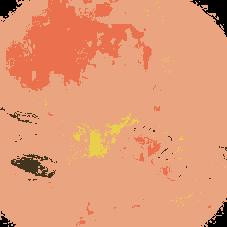
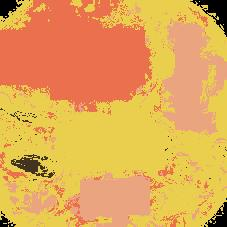
fixing some imagex SVM

diff --git a/SVM_classification.py b/SVM_classification.py
@@ -6,7 +6,8 @@ from sklearn.cluster import KMeans
 from sklearn.svm import SVC
 import os
 
-plt.close('all')
+
+
 # #1----------------------------------------------------------------------------------------------------------
 # classes = {'wall': 0, 'polyp': 1, 'dirt': 2, 'dark': 3, 'hole': 4}
 # n_classes = len(classes)
@@ -79,42 +80,42 @@ plt.close('all')
 #
 # supervised_2 = supervised
 # imageio.imwrite('./images/2_SVM.jpg',palette[supervised])
-#3----------------------------------------------------------------------------------------------------------
-classes = {'wall': 0, 'polyp': 1, 'dirt': 2, 'dark': 3, 'hole': 4}
-n_classes = len(classes)
-palette = np.uint8([[234, 164, 128], [234, 112, 78], [234, 207, 79], [0, 0, 0], [67,52,31]])
-
-img = io.imread('images/3.jpg')
-img2 = img
-rows, cols, bands = img.shape
-
-
-X = img.reshape(rows*cols, bands)
-kmeans = KMeans(n_clusters=n_classes, random_state=0).fit(X)
-
-supervised = n_classes*np.ones(shape=(rows, cols), dtype=np.int)
-supervised[160:200, :175] = classes['polyp']
-supervised[40:100, 25:175] = classes['wall']
-supervised[148:154, 109:136] = classes['dirt']
-supervised[0:10, 0:10] = classes['dark']
-#supervised[90:110, 65:75] = classes['hole']
-
-y = supervised.ravel()
-train = np.flatnonzero(supervised < n_classes)
-test = np.flatnonzero(supervised == n_classes)
-
-clf = SVC()
-clf.fit(X[train], y[train])
-y[test] = clf.predict(X[test])
-supervised = y.reshape(rows, cols)
-#io.imshow(palette[supervised])
-plt.imshow(img2)
-plt.show()
-plt.imshow(palette[supervised], cmap=plt.cm.binary)
-plt.show()
-
-supervised_3 = supervised
-imageio.imwrite('./images/3_SVM.jpg',palette[supervised])
+# # 3----------------------------------------------------------------------------------------------------------
+# classes = {'wall': 0, 'polyp': 1, 'dirt': 2, 'dark': 3, 'hole': 4}
+# n_classes = len(classes)
+# palette = np.uint8([[234, 164, 128], [234, 112, 78], [234, 207, 79], [0, 0, 0], [67,52,31]])
+#
+# img = io.imread('images/3.jpg')
+# img2 = img
+# rows, cols, bands = img.shape
+#
+#
+# X = img.reshape(rows*cols, bands)
+# kmeans = KMeans(n_clusters=n_classes, random_state=0).fit(X)
+#
+# supervised = n_classes*np.ones(shape=(rows, cols), dtype=np.int)
+# supervised[160:200, 145:190] = classes['polyp']
+# supervised[00:130, 25:175] = classes['wall']
+# #supervised[148:154, 109:146] = classes['dirt']
+# supervised[0:10, 0:10] = classes['dark']
+# #supervised[90:110, 65:75] = classes['hole']
+#
+# y = supervised.ravel()
+# train = np.flatnonzero(supervised < n_classes)
+# test = np.flatnonzero(supervised == n_classes)
+#
+# clf = SVC()
+# clf.fit(X[train], y[train])
+# y[test] = clf.predict(X[test])
+# supervised = y.reshape(rows, cols)
+# #io.imshow(palette[supervised])
+# plt.imshow(img2)
+# plt.show()
+# plt.imshow(palette[supervised], cmap=plt.cm.binary)
+# plt.show()
+#
+# supervised_3 = supervised
+# imageio.imwrite('./images/3_SVM.jpg',palette[supervised])
 # #4------------------------------------------------------------------------------------------------
 # classes = {'wall': 0, 'polyp': 1, 'dirt': 2, 'dark': 3, 'hole': 4}
 # n_classes = len(classes)
@@ -129,11 +130,11 @@ imageio.imwrite('./images/3_SVM.jpg',palette[supervised])
 # kmeans = KMeans(n_clusters=n_classes, random_state=0).fit(X)
 #
 # supervised = n_classes*np.ones(shape=(rows, cols), dtype=np.int)
-# supervised[25:45, 85:115] = classes['polyp']
-# supervised[100:120, 0:35] = classes['wall']
+# supervised[10:50, 80:125] = classes['polyp']
+# supervised[125:175, 70:175] = classes['wall']
 # #supervised[148:154, 109:136] = classes['dirt']
 # supervised[0:10, 0:10] = classes['dark']
-# supervised[75:85, 100:120] = classes['hole']
+# supervised[65:85, 85:120] = classes['hole']
 #
 # y = supervised.ravel()
 # train = np.flatnonzero(supervised < n_classes)
@@ -165,11 +166,11 @@ imageio.imwrite('./images/3_SVM.jpg',palette[supervised])
 # kmeans = KMeans(n_clusters=n_classes, random_state=0).fit(X)
 #
 # supervised = n_classes*np.ones(shape=(rows, cols), dtype=np.int)
-# supervised[170:185, 140:153] = classes['polyp']
-# supervised[25:50, 150:165] = classes['wall']
-# #supervised[148:154, 109:136] = classes['dirt']
+# supervised[165:195, 140:170] = classes['polyp']
+# supervised[25:100, 150:165] = classes['wall']
+# supervised[140:160, 169:182] = classes['dirt']
 # supervised[0:10, 0:10] = classes['dark']
-# supervised[62:70, 50:65] = classes['hole']
+# supervised[65:90, 50:80] = classes['hole']
 #
 # y = supervised.ravel()
 # train = np.flatnonzero(supervised < n_classes)
@@ -201,10 +202,13 @@ imageio.imwrite('./images/3_SVM.jpg',palette[supervised])
 # kmeans = KMeans(n_clusters=n_classes, random_state=0).fit(X)
 #
 # supervised = n_classes*np.ones(shape=(rows, cols), dtype=np.int)
-# supervised[10:20, 50:150] = classes['wall']
-# supervised[135:155, 125:145] = classes['polyp']
-# supervised[110:125, 148:164] = classes['dirt']
-# supervised[150:165, 10:48] = classes['hole']
+# supervised[0:65, 25:175] = classes['wall']
+# supervised[135:170, 123:150] = classes['polyp']
+# supervised[150:180, 65:105] = classes['polyp']
+# supervised[105:120, 148:170] = classes['dirt']
+# supervised[130:160, 192:214] = classes['dirt']
+# supervised[105:115, 81:90] = classes['dirt']
+# supervised[125:165, 10:48] = classes['hole']
 # supervised[0:10, 0:10] = classes['dark']
 #
 # y = supervised.ravel()
@@ -237,8 +241,12 @@ imageio.imwrite('./images/3_SVM.jpg',palette[supervised])
 # kmeans = KMeans(n_clusters=n_classes, random_state=0).fit(X)
 #
 # supervised = n_classes*np.ones(shape=(rows, cols), dtype=np.int)
-# supervised[100:180, 110:190] = classes['wall']
-# supervised[25:70, 0:35] = classes['polyp']
+# supervised[100:170, 110:190] = classes['wall']
+# supervised[110:198, 0:75] = classes['wall']
+# #supervised[100:170, 110:190] = classes['wall']
+#
+# supervised[25:85, 0:52] = classes['polyp']
+# supervised[5:25, 18:60] = classes['polyp']
 # #supervised[110:125, 148:164] = classes['dirt']
 # supervised[210:225, 125:170] = classes['hole']
 # supervised[0:10, 0:10] = classes['dark']
@@ -273,10 +281,11 @@ imageio.imwrite('./images/3_SVM.jpg',palette[supervised])
 # kmeans = KMeans(n_clusters=n_classes, random_state=0).fit(X)
 #
 # supervised = n_classes*np.ones(shape=(rows, cols), dtype=np.int)
-# supervised[75:125, 75:175] = classes['wall']
-# supervised[65:90, 25:60] = classes['polyp']
+# supervised[75:150, 115:185] = classes['wall']
+# supervised[10:175, 150:200] = classes['wall']
+# supervised[60:100, 20:72] = classes['polyp']
 # #supervised[110:125, 148:164] = classes['dirt']
-# supervised[110:139, 40:95] = classes['hole']
+# supervised[110:139, 40:100] = classes['hole']
 # supervised[0:10, 0:10] = classes['dark']
 #
 # y = supervised.ravel()
@@ -310,9 +319,9 @@ imageio.imwrite('./images/3_SVM.jpg',palette[supervised])
 #
 # supervised = n_classes*np.ones(shape=(rows, cols), dtype=np.int)
 # supervised[100:140, 160:200] = classes['wall']
-# supervised[150:175, 140:175] = classes['polyp']
+# supervised[148:185, 135:175] = classes['polyp']
 # #supervised[110:125, 148:164] = classes['dirt']
-# supervised[40:75, 40:80] = classes['hole']
+# supervised[40:80, 40:82] = classes['hole']
 # supervised[0:10, 0:10] = classes['dark']
 #
 # y = supervised.ravel()
@@ -346,7 +355,7 @@ imageio.imwrite('./images/3_SVM.jpg',palette[supervised])
 #
 # supervised = n_classes*np.ones(shape=(rows, cols), dtype=np.int)
 # supervised[100:160, 0:100] = classes['wall']
-# supervised[20:50, 125:165] = classes['polyp']
+# supervised[20:50, 125:169] = classes['polyp']
 # #supervised[110:125, 148:164] = classes['dirt']
 # #supervised[40:75, 40:80] = classes['hole']
 # supervised[0:10, 0:10] = classes['dark']
@@ -381,8 +390,8 @@ imageio.imwrite('./images/3_SVM.jpg',palette[supervised])
 # kmeans = KMeans(n_clusters=n_classes, random_state=0).fit(X)
 #
 # supervised = n_classes*np.ones(shape=(rows, cols), dtype=np.int)
-# supervised[40:100, 0:50] = classes['wall']
-# supervised[90:150, 75:90] = classes['polyp']
+# supervised[40:190, 0:50] = classes['wall']
+# supervised[90:160, 60:100] = classes['polyp']
 # #supervised[110:125, 148:164] = classes['dirt']
 # supervised[100:175, 120:165] = classes['hole']
 # supervised[0:10, 0:10] = classes['dark']
@@ -419,6 +428,7 @@ imageio.imwrite('./images/3_SVM.jpg',palette[supervised])
 # supervised = n_classes*np.ones(shape=(rows, cols), dtype=np.int)
 # supervised[22:50, 0:20] = classes['wall']
 # supervised[180:210, 175:190] = classes['polyp']
+# supervised[180:205, 175:200] = classes['polyp']
 # supervised[90:110, 83:98] = classes['dirt']
 # supervised[40:108, 125:175] = classes['hole']
 # supervised[50:53, 212:214] = classes['hole']
@@ -454,10 +464,12 @@ imageio.imwrite('./images/3_SVM.jpg',palette[supervised])
 # kmeans = KMeans(n_clusters=n_classes, random_state=0).fit(X)
 #
 # supervised = n_classes*np.ones(shape=(rows, cols), dtype=np.int)
-# supervised[75:130, 180:221] = classes['wall']
-# supervised[30:70, 35:75] = classes['polyp']
-# supervised[133:155, 90:100] = classes['dirt']
-# supervised[125:133, 112:120] = classes['dirt']
+# supervised[25:130, 175:200] = classes['wall']
+# supervised[180:215, 80:150] = classes['wall']
+# supervised[27:85, 0:145] = classes['polyp']
+# supervised[50:100, 50:130] = classes['polyp']
+# supervised[138:155, 70:100] = classes['dirt']
+# supervised[125:170, 65:165] = classes['dirt']
 # supervised[135:140, 75:80] = classes['dirt']
 # supervised[160:172, 25:38] = classes['hole']
 # supervised[0:10, 0:10] = classes['dark']
@@ -492,11 +504,12 @@ imageio.imwrite('./images/3_SVM.jpg',palette[supervised])
 # kmeans = KMeans(n_clusters=n_classes, random_state=0).fit(X)
 #
 # supervised = n_classes*np.ones(shape=(rows, cols), dtype=np.int)
-# supervised[50:60, 20:30] = classes['wall']
-# supervised[20:60, 125:175] = classes['wall']
-# supervised[140:175, 50:95] = classes['polyp']
+# supervised[20:95, 85:180] = classes['wall']
+# supervised[49:100, 0:10] = classes['wall']
+# supervised[25:120, 40:80] = classes['wall']
+# supervised[130:205, 28:113] = classes['polyp']
 # #supervised[133:155, 90:100] = classes['dirt']
-# supervised[160:185, 140:175] = classes['hole']
+# supervised[135:185, 135:220] = classes['hole']
 # supervised[0:12, 0:12] = classes['dark']
 #
 # y = supervised.ravel()
@@ -530,8 +543,8 @@ imageio.imwrite('./images/3_SVM.jpg',palette[supervised])
 #
 # supervised = n_classes*np.ones(shape=(rows, cols), dtype=np.int)
 # supervised[170:200, 150:185] = classes['wall']
-# supervised[30:75, 20:60] = classes['wall']
-# supervised[150:190, 40:92] = classes['polyp']
+# supervised[30:79, 20:60] = classes['wall']
+# supervised[150:190, 18:92] = classes['polyp']
 # #supervised[133:155, 90:100] = classes['dirt']
 # supervised[90:125, 130:175] = classes['hole']
 # supervised[0:12, 0:12] = classes['dark']
@@ -566,9 +579,9 @@ imageio.imwrite('./images/3_SVM.jpg',palette[supervised])
 # kmeans = KMeans(n_clusters=n_classes, random_state=0).fit(X)
 #
 # supervised = n_classes*np.ones(shape=(rows, cols), dtype=np.int)
-# supervised[25:70, 25:75] = classes['wall']
-# supervised[75:85, 115:130] = classes['polyp']
-# supervised[65:85, 145:160] = classes['dirt']
+# supervised[40:180, 0:100] = classes['wall']
+# supervised[50:85, 105:145] = classes['polyp']
+# supervised[60:90, 140:160] = classes['dirt']
 # #supervised[90:125, 130:175] = classes['hole']
 # supervised[0:12, 0:12] = classes['dark']
 #
@@ -588,42 +601,42 @@ imageio.imwrite('./images/3_SVM.jpg',palette[supervised])
 #
 # supervised_16 = supervised
 # imageio.imwrite('./images/16_SVM.jpg',palette[supervised])
-# #17----------------------------------------------------------------------------------------------
-# classes = {'wall': 0, 'polyp': 1, 'dirt': 2, 'dark': 3, 'hole': 4}
-# n_classes = len(classes)
-# palette = np.uint8([[234, 164, 128], [234, 112, 78], [234, 207, 79], [0, 0, 0], [67,52,31]])
-#
-# img = io.imread('images/17.jpg')
-# img2 = img
-# rows, cols, bands = img.shape
-#
-#
-# X = img.reshape(rows*cols, bands)
-# kmeans = KMeans(n_clusters=n_classes, random_state=0).fit(X)
-#
-# supervised = n_classes*np.ones(shape=(rows, cols), dtype=np.int)
-# supervised[0:20, 100:135] = classes['wall']
-# supervised[110:155, 70:81] = classes['polyp']
-# supervised[60:90, 150:165] = classes['dirt']
-# supervised[40:60, 30:60] = classes['hole']
-# supervised[0:12, 0:12] = classes['dark']
-#
-# y = supervised.ravel()
-# train = np.flatnonzero(supervised < n_classes)
-# test = np.flatnonzero(supervised == n_classes)
-#
-# clf = SVC()
-# clf.fit(X[train], y[train])
-# y[test] = clf.predict(X[test])
-# supervised = y.reshape(rows, cols)
-# #io.imshow(palette[supervised])
-# plt.imshow(img2)
-# plt.show()
-# plt.imshow(palette[supervised], cmap=plt.cm.binary)
-# plt.show()
-#
-# supervised_17 = supervised
-# imageio.imwrite('./images/17_SVM.jpg',palette[supervised])
+#17----------------------------------------------------------------------------------------------
+classes = {'wall': 0, 'polyp': 1, 'dirt': 2, 'dark': 3, 'hole': 4}
+n_classes = len(classes)
+palette = np.uint8([[234, 164, 128], [234, 112, 78], [234, 207, 79], [0, 0, 0], [67,52,31]])
+
+img = io.imread('images/17.jpg')
+img2 = img
+rows, cols, bands = img.shape
+
+
+X = img.reshape(rows*cols, bands)
+kmeans = KMeans(n_clusters=n_classes, random_state=0).fit(X)
+
+supervised = n_classes*np.ones(shape=(rows, cols), dtype=np.int)
+supervised[0:20, 100:135] = classes['wall']
+supervised[110:155, 70:81] = classes['polyp']
+supervised[60:90, 150:165] = classes['dirt']
+supervised[40:60, 30:60] = classes['hole']
+supervised[0:12, 0:12] = classes['dark']
+
+y = supervised.ravel()
+train = np.flatnonzero(supervised < n_classes)
+test = np.flatnonzero(supervised == n_classes)
+
+clf = SVC()
+clf.fit(X[train], y[train])
+y[test] = clf.predict(X[test])
+supervised = y.reshape(rows, cols)
+#io.imshow(palette[supervised])
+plt.imshow(img2)
+plt.show()
+plt.imshow(palette[supervised], cmap=plt.cm.binary)
+plt.show()
+
+supervised_17 = supervised
+imageio.imwrite('./images/17_SVM.jpg',palette[supervised])
 # #18----------------------------------------------------------------------------------------------
 # classes = {'wall': 0, 'polyp': 1, 'dirt': 2, 'dark': 3, 'hole': 4}
 # n_classes = len(classes)
@@ -1835,4 +1848,4 @@ imageio.imwrite('./images/3_SVM.jpg',palette[supervised])
 # supervised_50 = supervised
 # imageio.imwrite('./images/50_SVM.jpg',palette[supervised])
 
-os.system("ground_truth_generator.py")
+#os.system("ground_truth_generator.py")
